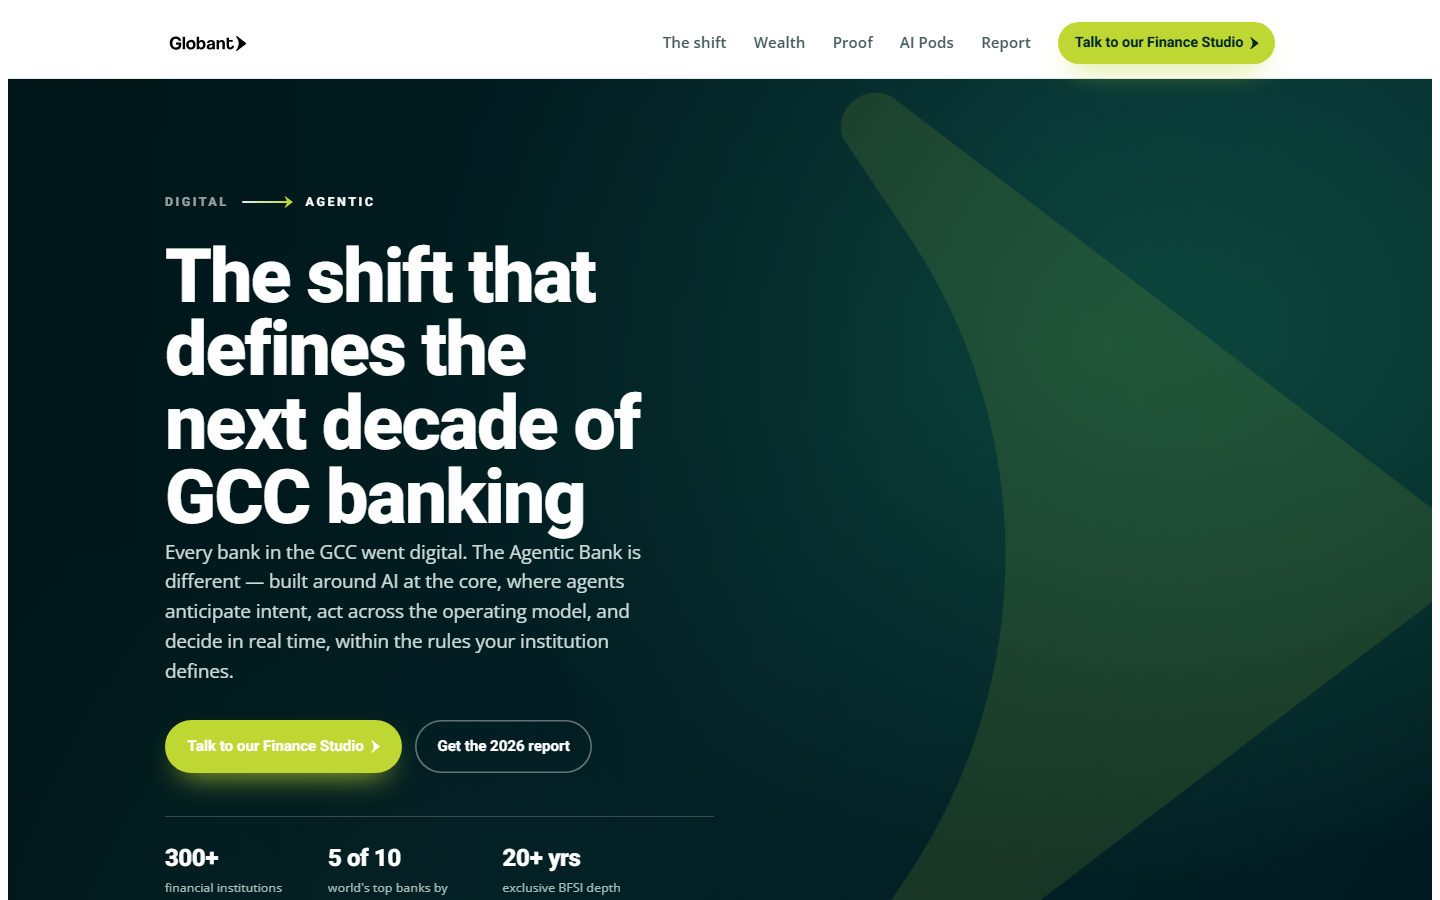
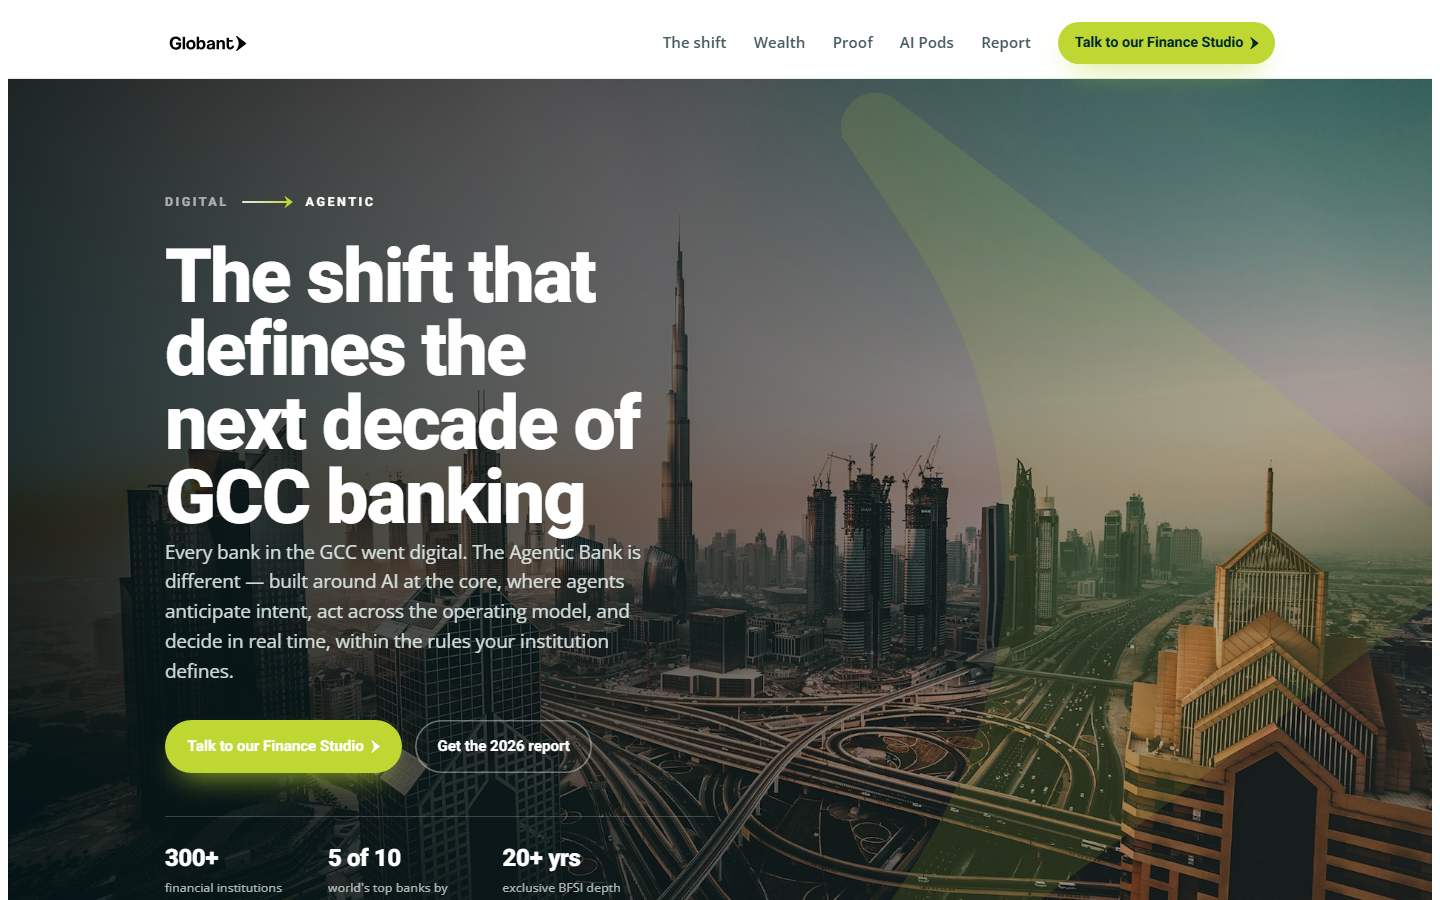
Add relevant imagery to Option 2 image bands
Self-hosted Unsplash photos (free license, not AI-generated) wired into the
full-width bands: Dubai skyline (hero), advisory/analysis (wealth), meeting
(CTA). Legibility scrims tuned; chooser thumbnail refreshed.

NOTE: imagery is for exploration and still requires brand-team sign-off
before production.

diff --git a/option-2.html b/option-2.html
@@ -288,19 +288,15 @@
        approved/licensed photo is set via inline --gb-lp-img.
        NO AI-generated / unlicensed imagery (brand hard rule).
        ========================================================= */
-    .gb-lp-imgband{ position:relative; overflow:hidden; isolation:isolate; color:#fff; }
+    .gb-lp-imgband{ position:relative; overflow:hidden; isolation:isolate; color:#fff;
+      /* branded gradient shown only when no photo is set via --gb-lp-img */
+      --gb-lp-fallback:radial-gradient(85% 95% at 78% 28%,rgba(56,239,160,.24),transparent 60%),radial-gradient(70% 80% at 8% 92%,rgba(99,227,207,.16),transparent 55%),linear-gradient(120deg,#00292E 0%,#063238 55%,#001a1e 100%); }
     .gb-lp-imgband .gb-lp-imgbg{ position:absolute; inset:0; z-index:-2; background-color:var(--navy);
-      background-image:var(--gb-lp-img,none); background-size:cover; background-position:center; }
-    /* branded art fallback (visible when no photo is supplied) */
-    .gb-lp-imgband .gb-lp-imgbg::after{ content:""; position:absolute; inset:0;
-      background:
-        radial-gradient(85% 95% at 78% 28%, rgba(56,239,160,.24), transparent 60%),
-        radial-gradient(70% 80% at 8% 92%, rgba(99,227,207,.16), transparent 55%),
-        linear-gradient(120deg,#00292E 0%,#063238 55%,#001a1e 100%); }
+      background-image:var(--gb-lp-img,var(--gb-lp-fallback)); background-size:cover; background-position:center; }
     /* legibility scrim over whatever sits behind the text */
     .gb-lp-imgband .gb-lp-scrim{ position:absolute; inset:0; z-index:-1;
-      background:linear-gradient(90deg, rgba(0,18,21,.86) 0%, rgba(0,18,21,.55) 46%, rgba(0,18,21,.12) 100%); }
-    .gb-lp-imgband.gb-lp-center .gb-lp-scrim{ background:linear-gradient(180deg, rgba(0,18,21,.42), rgba(0,18,21,.72)); }
+      background:linear-gradient(90deg, rgba(0,18,21,.88) 0%, rgba(0,18,21,.58) 46%, rgba(0,18,21,.18) 100%); }
+    .gb-lp-imgband.gb-lp-center .gb-lp-scrim{ background:linear-gradient(180deg, rgba(0,18,21,.58) 0%, rgba(0,18,21,.5) 40%, rgba(0,18,21,.8) 100%); }
     .gb-lp-imgband .gb-lp-bandarrow{ position:absolute; right:-3%; top:50%; transform:translateY(-50%);
       width:46%; max-width:660px; aspect-ratio:74/108; color:rgba(191,215,50,.12); fill:currentColor; z-index:-1; pointer-events:none; }
     /* tiny corner marker so reviewers know this is an image slot (remove for production) */
@@ -369,7 +365,7 @@
       <!-- ============ §1 HERO ============ -->
       <!-- IMAGE SLOT: add an approved/licensed photo via inline style, e.g.
            style="--gb-lp-img:url('assets/img/hero.jpg')" — branded art shows until then -->
-      <section class="gb-lp-section gb-lp-hero gb-lp-imgband" aria-labelledby="gb-lp-hero-h">
+      <section class="gb-lp-section gb-lp-hero gb-lp-imgband" aria-labelledby="gb-lp-hero-h" style="--gb-lp-img:url('assets/img/hero.jpg')">
         <div class="gb-lp-imgbg"></div>
         <div class="gb-lp-scrim"></div>
         <svg class="gb-lp-bandarrow" aria-hidden="true"><use href="#gb-lp-arrow"/></svg>
@@ -470,7 +466,7 @@
 
       <!-- ============ §3 WEALTH ============ -->
       <!-- IMAGE SLOT: style="--gb-lp-img:url('assets/img/wealth.jpg')" -->
-      <section id="gb-lp-wealth" class="gb-lp-section gb-lp-imgband" aria-labelledby="gb-lp-wealth-h">
+      <section id="gb-lp-wealth" class="gb-lp-section gb-lp-imgband" aria-labelledby="gb-lp-wealth-h" style="--gb-lp-img:url('assets/img/wealth.jpg')">
         <div class="gb-lp-imgbg"></div>
         <div class="gb-lp-scrim"></div>
         <span class="gb-lp-imgtag" aria-hidden="true">Image slot · licensed photo</span>
@@ -580,7 +576,7 @@
 
       <!-- ============ §7 FINAL CTA + FOOTER (navy) ============ -->
       <!-- IMAGE SLOT: style="--gb-lp-img:url('assets/img/cta.jpg')" -->
-      <section id="gb-lp-contact" class="gb-lp-section gb-lp-cta-sec gb-lp-imgband gb-lp-center" aria-labelledby="gb-lp-cta-h">
+      <section id="gb-lp-contact" class="gb-lp-section gb-lp-cta-sec gb-lp-imgband gb-lp-center" aria-labelledby="gb-lp-cta-h" style="--gb-lp-img:url('assets/img/cta.jpg')">
         <div class="gb-lp-imgbg"></div>
         <div class="gb-lp-scrim"></div>
         <span class="gb-lp-imgtag" aria-hidden="true">Image slot · licensed photo</span>